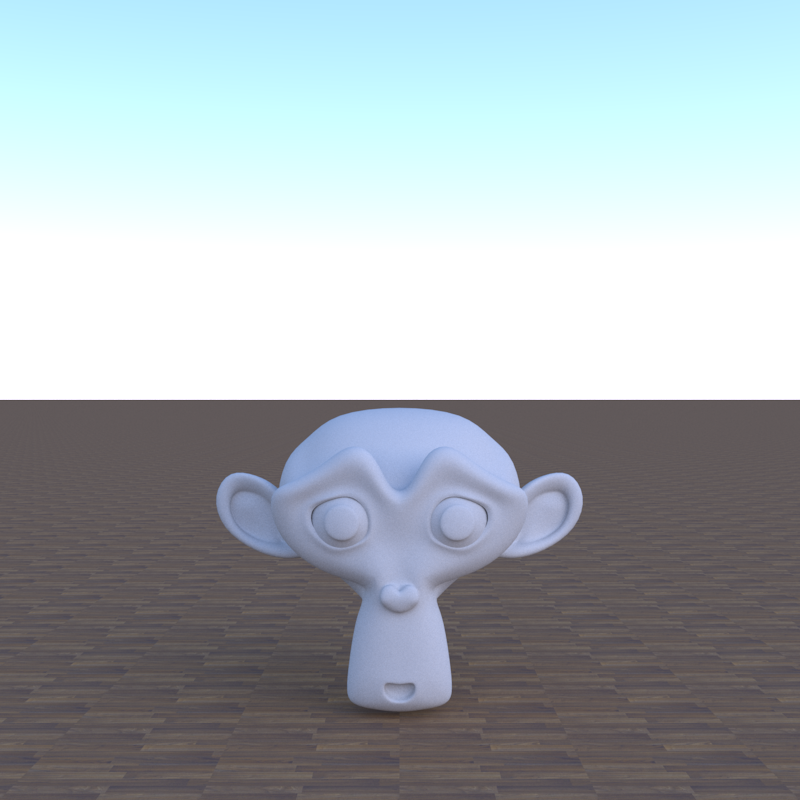
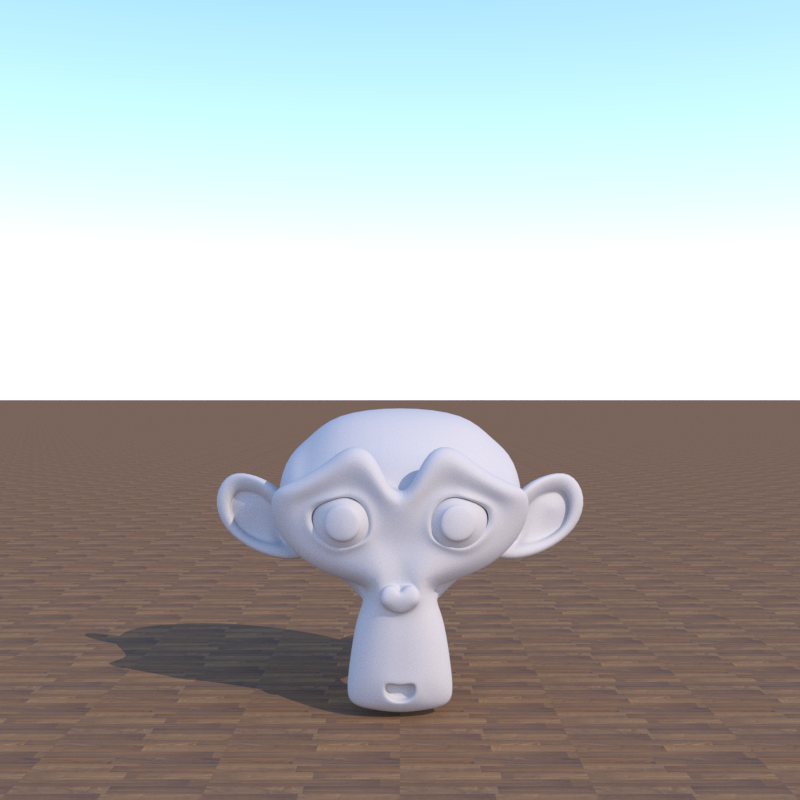
Update the PerezLight and the documentation.

Changed region(s): [[0.0, 0.5, 1.0, 1.0]]

diff --git a/src/main/java/org/dayflower/scene/light/PerezLight.java b/src/main/java/org/dayflower/scene/light/PerezLight.java
@@ -339,20 +339,11 @@ public final class PerezLight extends Light {
 		Objects.requireNonNull(intersection, "intersection == null");
 		Objects.requireNonNull(sample, "sample == null");
 		
-		final boolean isOrientedTowardsSun = Vector3F.dotProduct(this.sunDirectionWorldSpace, intersection.getSurfaceNormalG()) > 0.0F && Vector3F.dotProduct(this.sunDirectionWorldSpace, intersection.getSurfaceNormalS()) > 0.0F;
+		final float random = random();
 		
-//		final float sky = isOrientedTowardsSun ? random() : 1.0F;
-//		final float sun = 1.0F - sky;
+		final boolean isSamplingSun = Vector3F.dotProduct(this.sunDirectionWorldSpace, intersection.getSurfaceNormalG()) > random && Vector3F.dotProduct(this.sunDirectionWorldSpace, intersection.getSurfaceNormalS()) > random;
 		
-//		final float probabilityRussianRoulette = 0.25F + 0.5F * sky;
-//		final float probabilityRussianRouletteSky = sky / probabilityRussianRoulette;
-//		final float probabilityRussianRouletteSun = sun / (1.0F - probabilityRussianRoulette);
-		
-//		final boolean isSamplingSky = random() < probabilityRussianRoulette;
-//		final boolean isSamplingSun = !isSamplingSky;
-		final boolean isSamplingSun = random() < 0.5F;
-		
-		if(isOrientedTowardsSun && isSamplingSun) {
+		if(isSamplingSun) {
 			final Vector3F incomingObjectSpace = this.sunDirection;
 			final Vector3F incomingWorldSpace = this.sunDirectionWorldSpace;
 			
@@ -367,7 +358,7 @@ public final class PerezLight extends Light {
 				
 				final Sample2F sampleRemapped = new Sample2F(sphericalCoordinates.getU(), sphericalCoordinates.getV());
 				
-				final float probabilityDensityFunctionValue = this.distribution.continuousProbabilityDensityFunction(sampleRemapped, true)/* * probabilityRussianRouletteSun*/ / (2.0F * PI * PI * sinTheta);
+				final float probabilityDensityFunctionValue = this.distribution.continuousProbabilityDensityFunction(sampleRemapped, true) / (2.0F * PI * PI * sinTheta);
 				
 				return Optional.of(new LightSample(result, point, incomingWorldSpace, probabilityDensityFunctionValue));
 			}
@@ -394,7 +385,7 @@ public final class PerezLight extends Light {
 		
 		final Point3F point = Point3F.add(intersection.getSurfaceIntersectionPoint(), incomingWorldSpace, 2.0F * this.radius);
 		
-		final float probabilityDensityFunctionValue = probabilityDensityFunctionValueRemapped/* * probabilityRussianRouletteSky*/ / (2.0F * PI * PI * sinTheta);
+		final float probabilityDensityFunctionValue = probabilityDensityFunctionValueRemapped / (2.0F * PI * PI * sinTheta);
 		
 		return Optional.of(new LightSample(result, point, incomingWorldSpace, probabilityDensityFunctionValue));
 	}
